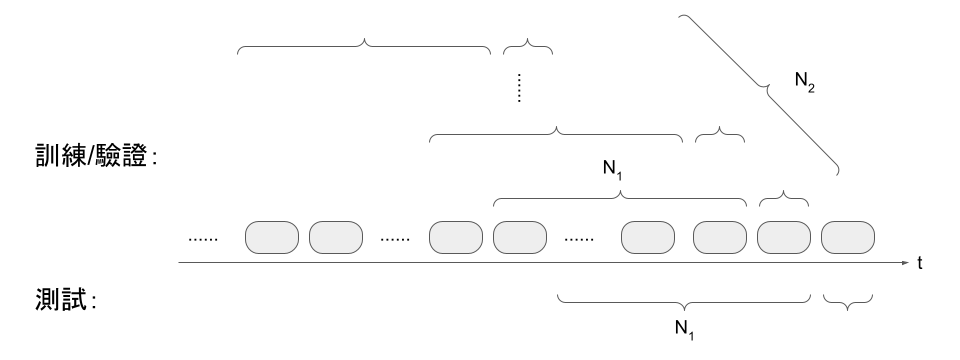
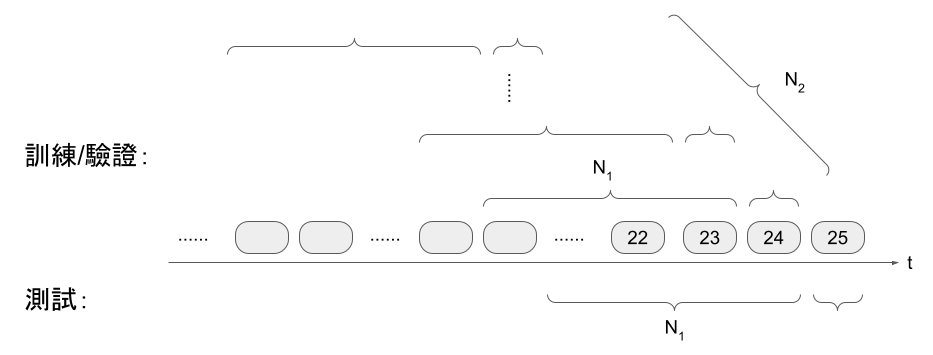
Modify README

diff --git a/README.md b/README.md
@@ -52,11 +52,9 @@ python3 test_cv_merge_allow_shorter.py n_fold_train
 
 程式語言為 Python 3，未特別指定版本；函式庫則如本說明前半部所示，其中的 matplotlib 為繪圖觀察用，而 yaml 為儲存模型組態用。
 
-### 特徵截取(附帶資料觀察)
+### 特徵截取(附帶資料觀察)與預測目標
 
-我先將欄位分為兩類，依照「訓練資料欄位說明」的順序，從 shop_tag（消費類別）起至 card_other_txn_amt_pct （其他卡片消費金額佔比）止，因為是從每月每類的消費行為而來，且消費行為必然是變動的，因此列為「時間變化類」；而 masts （婚姻狀態）起至最後為止，因所觀察到的每人的婚姻狀態或教育程度等，在比賽資料所截取的兩年間幾乎都不會變化，故列為「時間不變類」。事實上，在「時間不變類」的欄位當中，平均每人用過的不同狀態，平均約為 1.17 種，最多的則為 3 至 5 種。
-
-以下取法經去除輸出全部為 0 （及預測目標月份沒有購買行為）之資料後，共約 102 萬組。
+我先將欄位分為兩類，依照「訓練資料欄位說明」的順序，從 shop_tag（消費類別）起至 card_other_txn_amt_pct （其他卡片消費金額佔比）止，因為是從每月每類的消費行為而來，且消費行為必然是變動的，因此列為「時間變化類」；而 masts （婚姻狀態）起至最後為止，因所觀察到的每人的婚姻狀態或教育程度等，在比賽資料所截取的兩年間幾乎都不會變化，故列為「時間不變類」，以節省運算及儲存資源。事實上，在「時間不變類」的欄位當中，平均每人用過的不同狀態，平均約為 1.005 至 1.167 種，最多的則為 3 至 5 種。
 
 #### 時間變化類
 
@@ -68,13 +66,13 @@ python3 test_cv_merge_allow_shorter.py n_fold_train
    * 1, 2, 4, 6, 10, other 為所有消費紀錄中，使用次數最多的前六個卡片編號。
 5. 以上共 1 + 49 + 13 \* 22 = 336 維
 
-跨月份的取值方式如下圖所示，其中 $N_1$ 為 20 個月，$N_2$ 為 4 組，在範圍內會盡可能的取長或多。另，若該月未有消費紀錄，則忽略該月。
+跨月份的取值方式如下圖所示，其中每個圓角方塊代表每人的一個月份的所有消費紀錄，而 N<sub>1</sub> 為 20 個月，N<sub>2</sub> 為 4 組，在範圍內會盡可能的取長或多。另，若該月未有消費紀錄，則忽略該月。
 
 ![時間變化類取值方式](images/fea_ext.png "時間變化類取值方式")
 
 #### 時間不變類
 
-對於每人僅使用取值範圍內最後消費當月（$N_1$ 範圍內的最後一筆）的金額最大的類別所記載的資料來組成特徵。
+對於每人僅使用取值範圍內最後消費當月（N<sub>1</sub> 範圍內的最後一筆）的金額最大的類別所記載的資料來組成特徵。
 
 使用時，以 masts, gender_code, age, primary_card, slam 各自編成 one-hot encoding 或數值型態後組合，共得 20 維，細節說明如下
 * masts: 含缺值共 4 種狀態，4 維。
@@ -85,11 +83,19 @@ python3 test_cv_merge_allow_shorter.py n_fold_train
 
 此部分亦嘗試過其他特徵，但可能是因為維度較大不易訓練（如 cuorg，含缺值共 35 維），或客戶有可能填寫不實（如 poscd），故未取得較好之結果。
 
+#### 預測目標
+
+共 16 維，代表需要預測的 16 個類別，其中下月金額第一名者為 1，第二名者 0.8，第三名者 0.6，第四名以下有購買者 0.2，未購買者 0。
+
+#### 小結
+
+以上取法經去除輸出全部為 0 （即預測目標月份沒有購買行為）之資料後，共約 102 萬組。
+
 ### 模型設計與訓練
 
-本次比賽使用的模型架構如下圖，主體為 BiLSTM + attention，前後加上適量的 linear layers，其中標色部分為 attention 的做用範圍，最後面的 dense layers 之細部架構則為 (dense 128 + ReLU + dropout 0.1) * 2 + dense 16 + Sigmoid。模型輸出為下月金額第一名者為 1，第二名者 0.8，第三名者 0.6，第四名以下有購買者 0.2，未購買者 0。
+本次比賽使用的模型架構如下圖，主體為 BiLSTM + attention，前後加上適量的 linear layers，其中標色部分為 attention 的做用範圍，最後面的 dense layers 之細部架構則為 (dense 128 + ReLU + dropout 0.1) * 2 + dense 16 + Sigmoid。
 
-![模型架構](images/model.png "模型架構")
+![模型架構](images/model_archi.png "模型架構")
 
 訓練方式為 5 folds cross validation，預測時會將五個模型的結果取平均，再依據平均後的排名輸出前三名的類別。細節參數如下，未提及之參數係依照 pytorch 預設值，未進行修改：
 * Num of epochs: 100 epochs，若 validation loss 連續 10 個 epochs 未創新低，則提前終止該 fold 的訓練。
